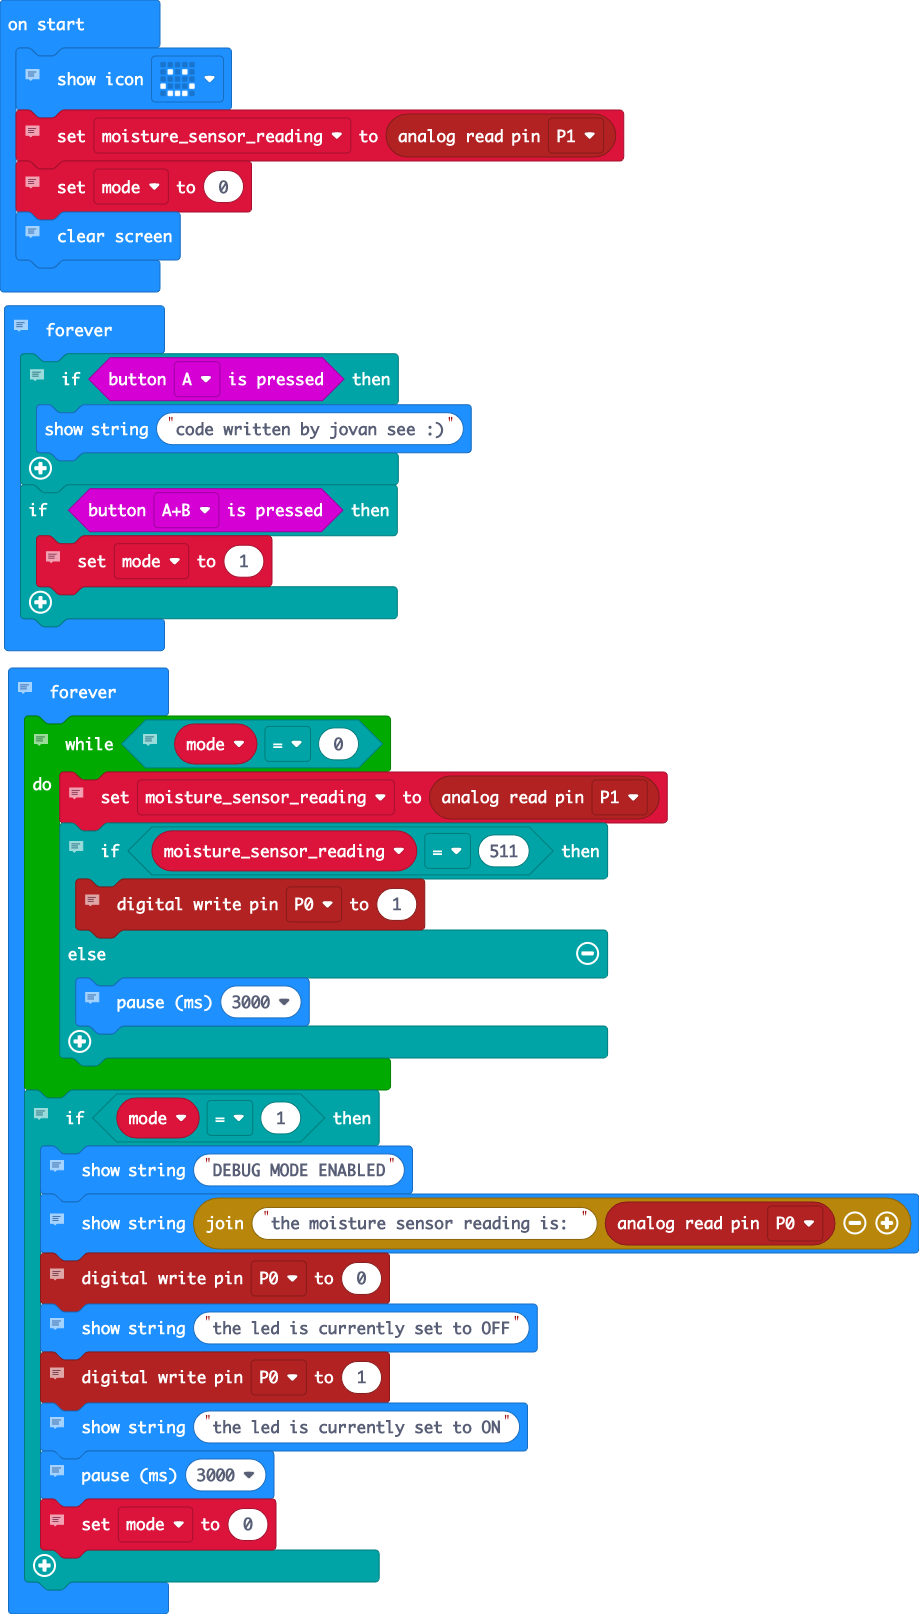
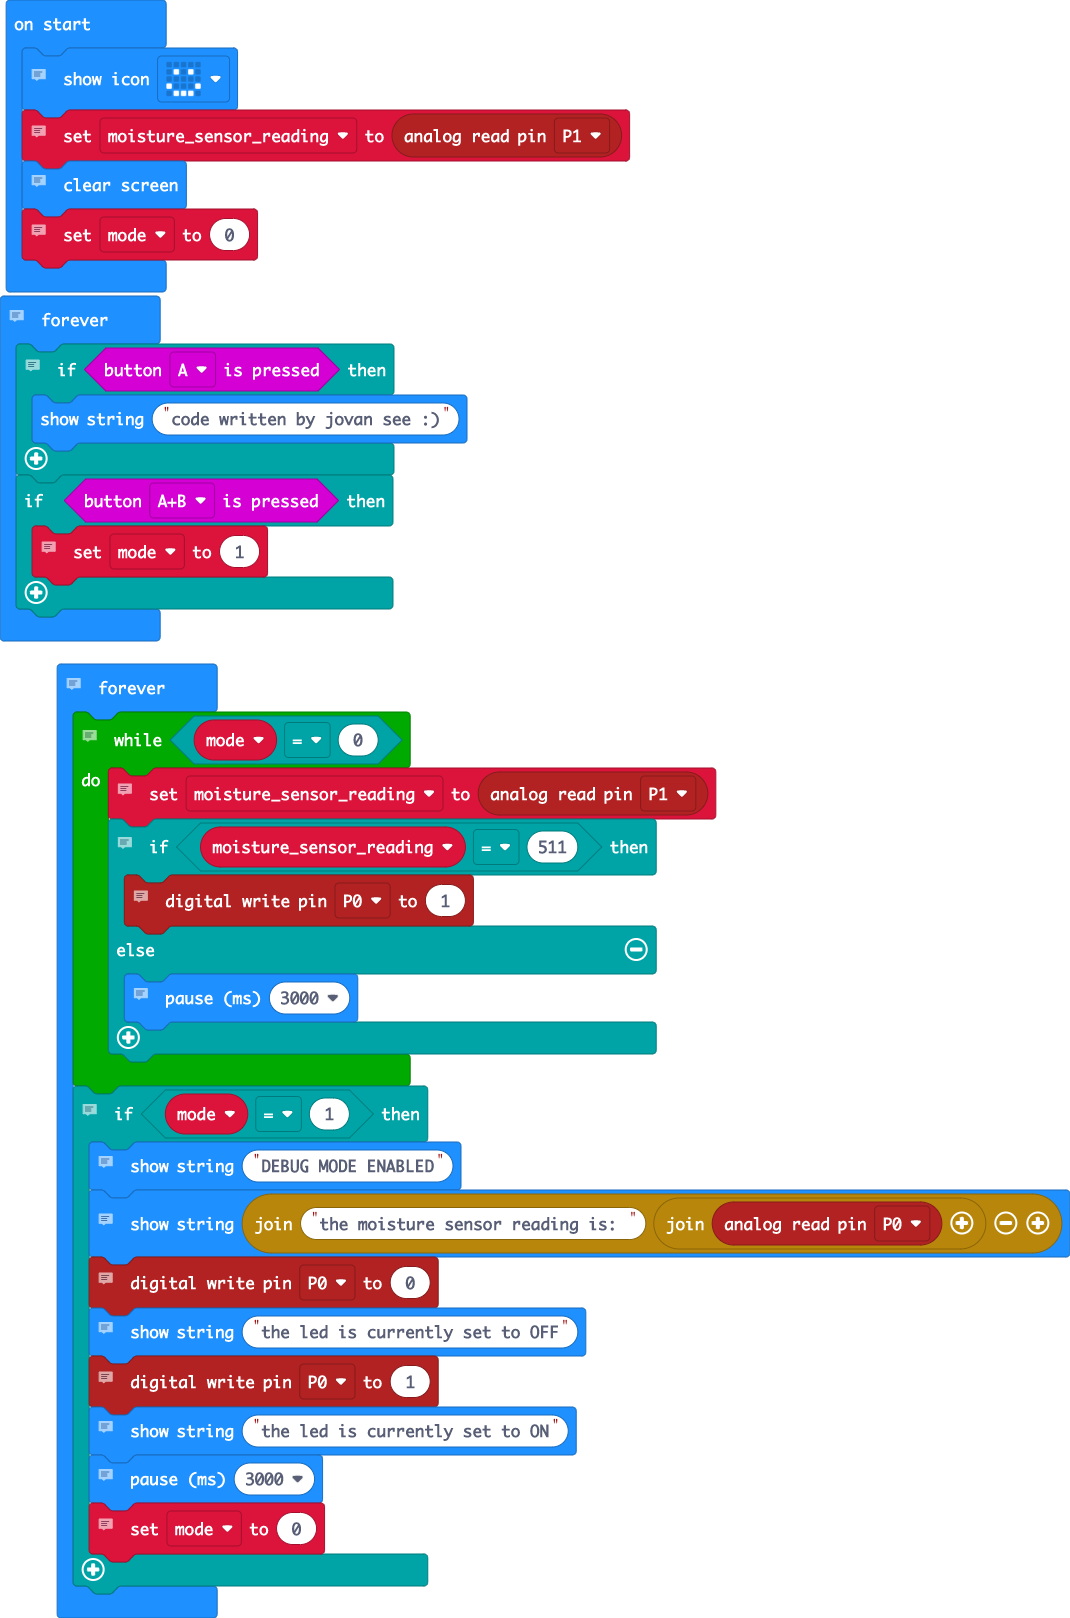
a minor bug fix

Changed region(s): [[0.0, 0.0, 1.0, 1.0], [0.3961, 0.9603, 0.4266, 0.9913]]

diff --git a/main.ts b/main.ts
@@ -2,10 +2,10 @@
 basic.showIcon(IconNames.Happy)
 //  reads the value from the moisture sensor (analog pin 1) and assigns it to the moisture_sensor_reading
 let moisture_sensor_reading = pins.analogReadPin(AnalogPin.P1)
-//  sets mode value to 0 (default mode)
-let mode = 0
 //  clears led screen
 basic.clearScreen()
+//  sets mode value to 0 (default mode)
+let mode = 0
 //  controls
 basic.forever(function on_forever() {
     
@@ -43,7 +43,7 @@ basic.forever(function on_forever2() {
         //  displays debug mode intro
         basic.showString("DEBUG MODE ENABLED")
         //  displays moisture sensor reading
-        basic.showString("the moisture sensor reading is: " + ("" + pins.analogReadPin(AnalogPin.P0)))
+        basic.showString("the moisture sensor reading is: " + ("" + ("" + pins.analogReadPin(AnalogPin.P0))))
         //  turns led (digital pin 0) off
         pins.digitalWritePin(DigitalPin.P0, 0)
         //  shows led off message

diff --git a/main.py b/main.py
@@ -2,10 +2,10 @@
 basic.show_icon(IconNames.HAPPY)
 # reads the value from the moisture sensor (analog pin 1) and assigns it to the moisture_sensor_reading
 moisture_sensor_reading = pins.analog_read_pin(AnalogPin.P1)
-# sets mode value to 0 (default mode)
-mode = 0
 # clears led screen
 basic.clear_screen()
+# sets mode value to 0 (default mode)
+mode = 0
 # controls
 
 def on_forever():
@@ -39,7 +39,7 @@ def on_forever2():
         # displays debug mode intro
         basic.show_string("DEBUG MODE ENABLED")
         # displays moisture sensor reading
-        basic.show_string("the moisture sensor reading is: " + str(pins.analog_read_pin(AnalogPin.P0)))
+        basic.show_string("the moisture sensor reading is: " + ("" + str(pins.analog_read_pin(AnalogPin.P0))))
         # turns led (digital pin 0) off
         pins.digital_write_pin(DigitalPin.P0, 0)
         # shows led off message
